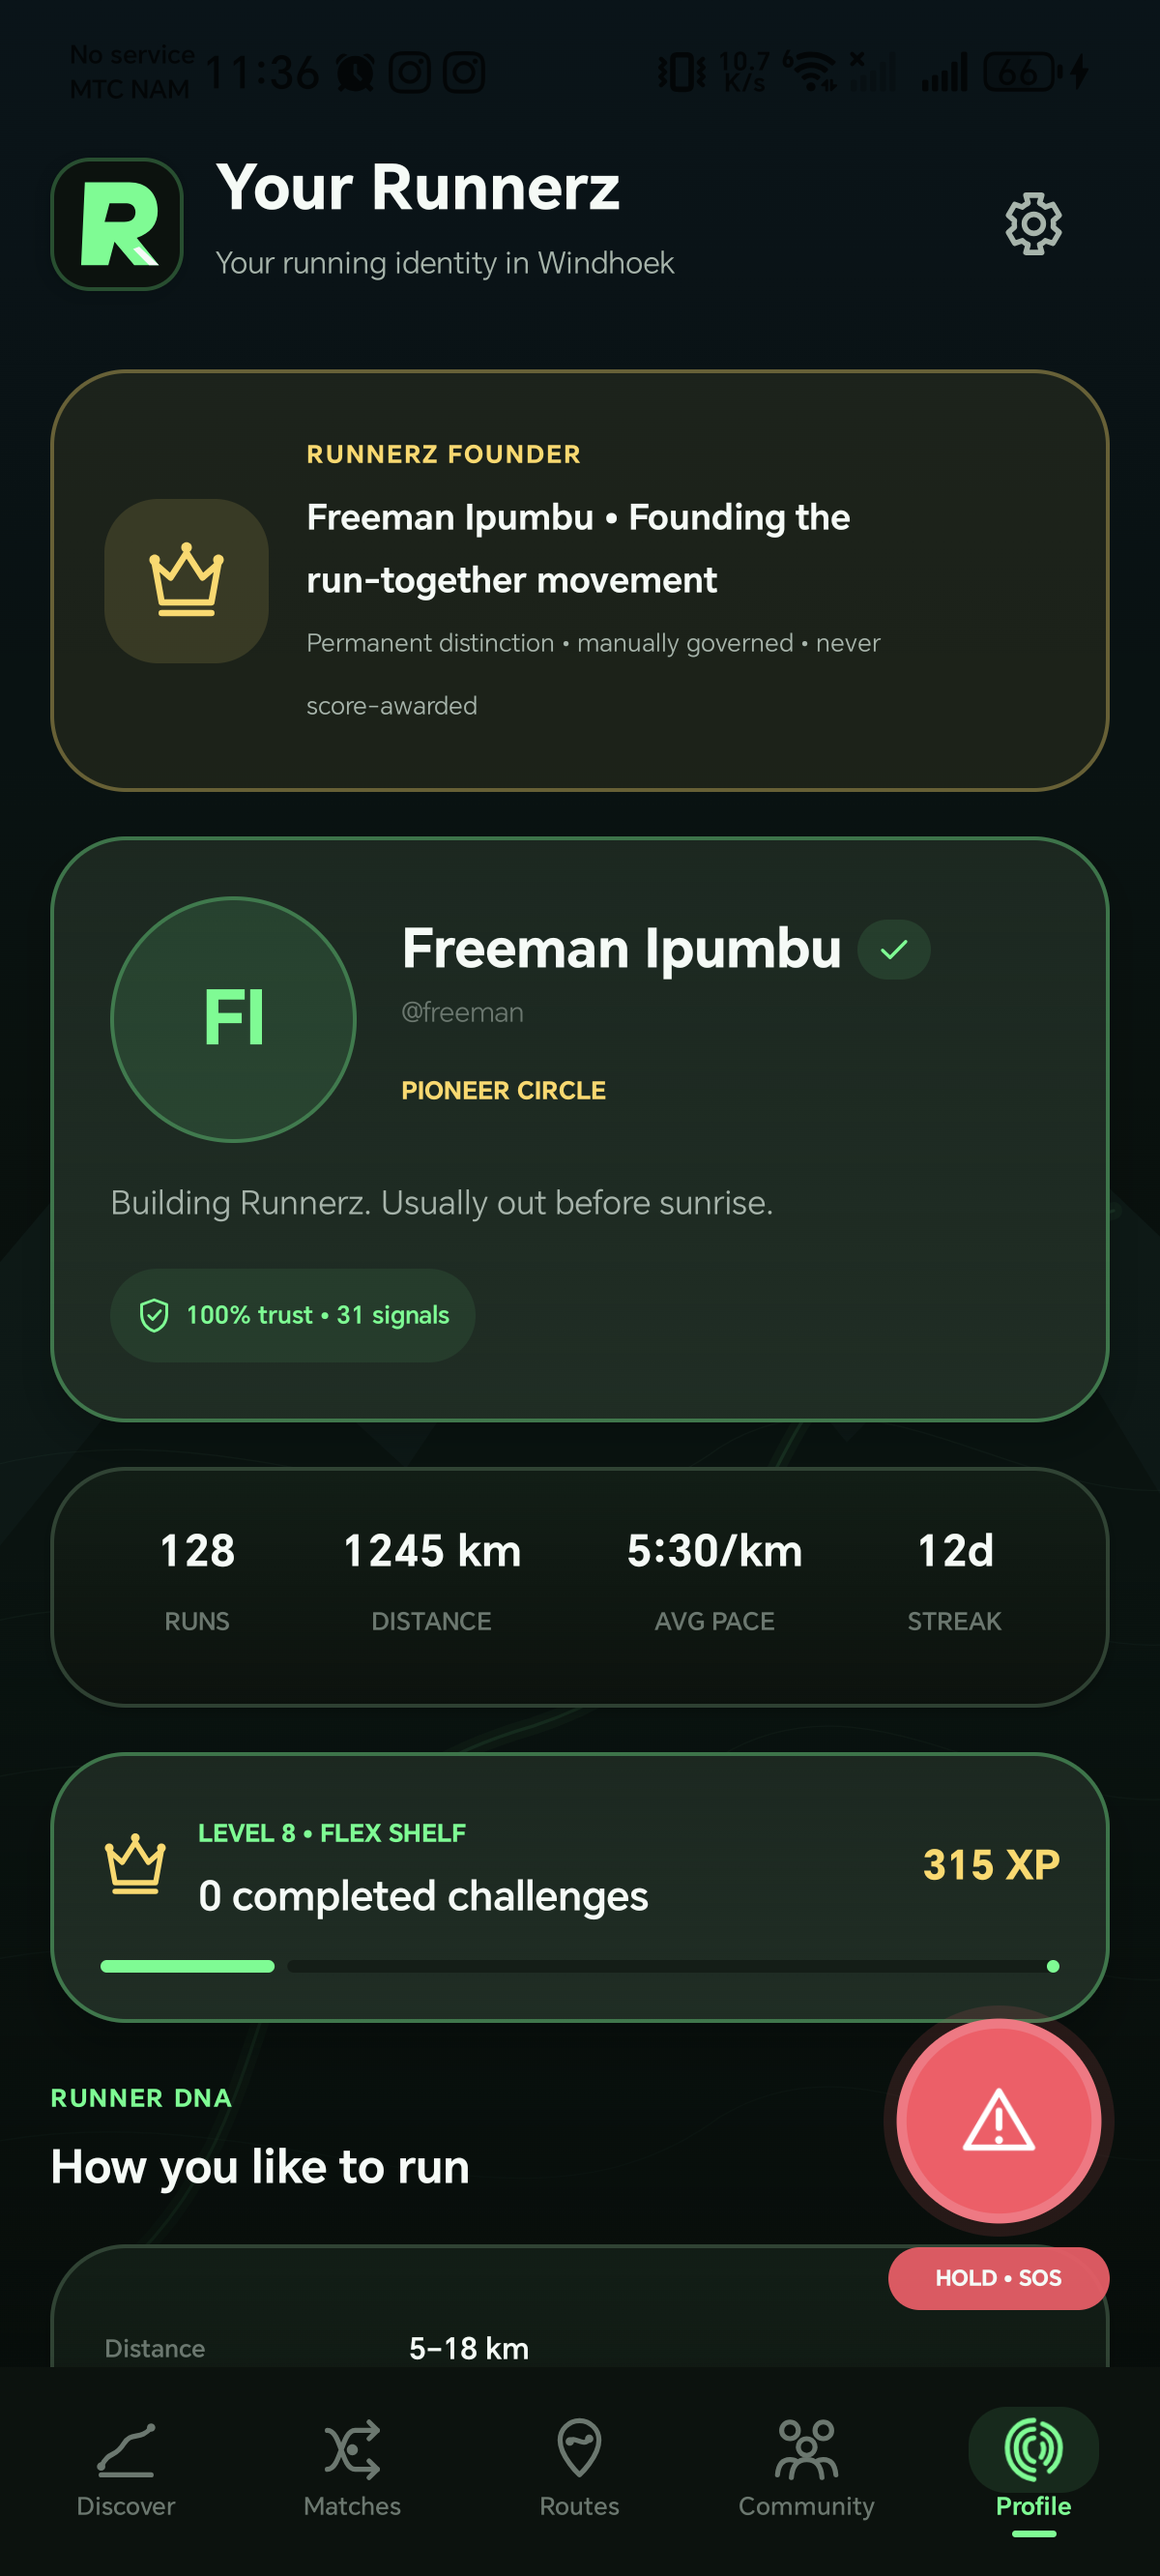
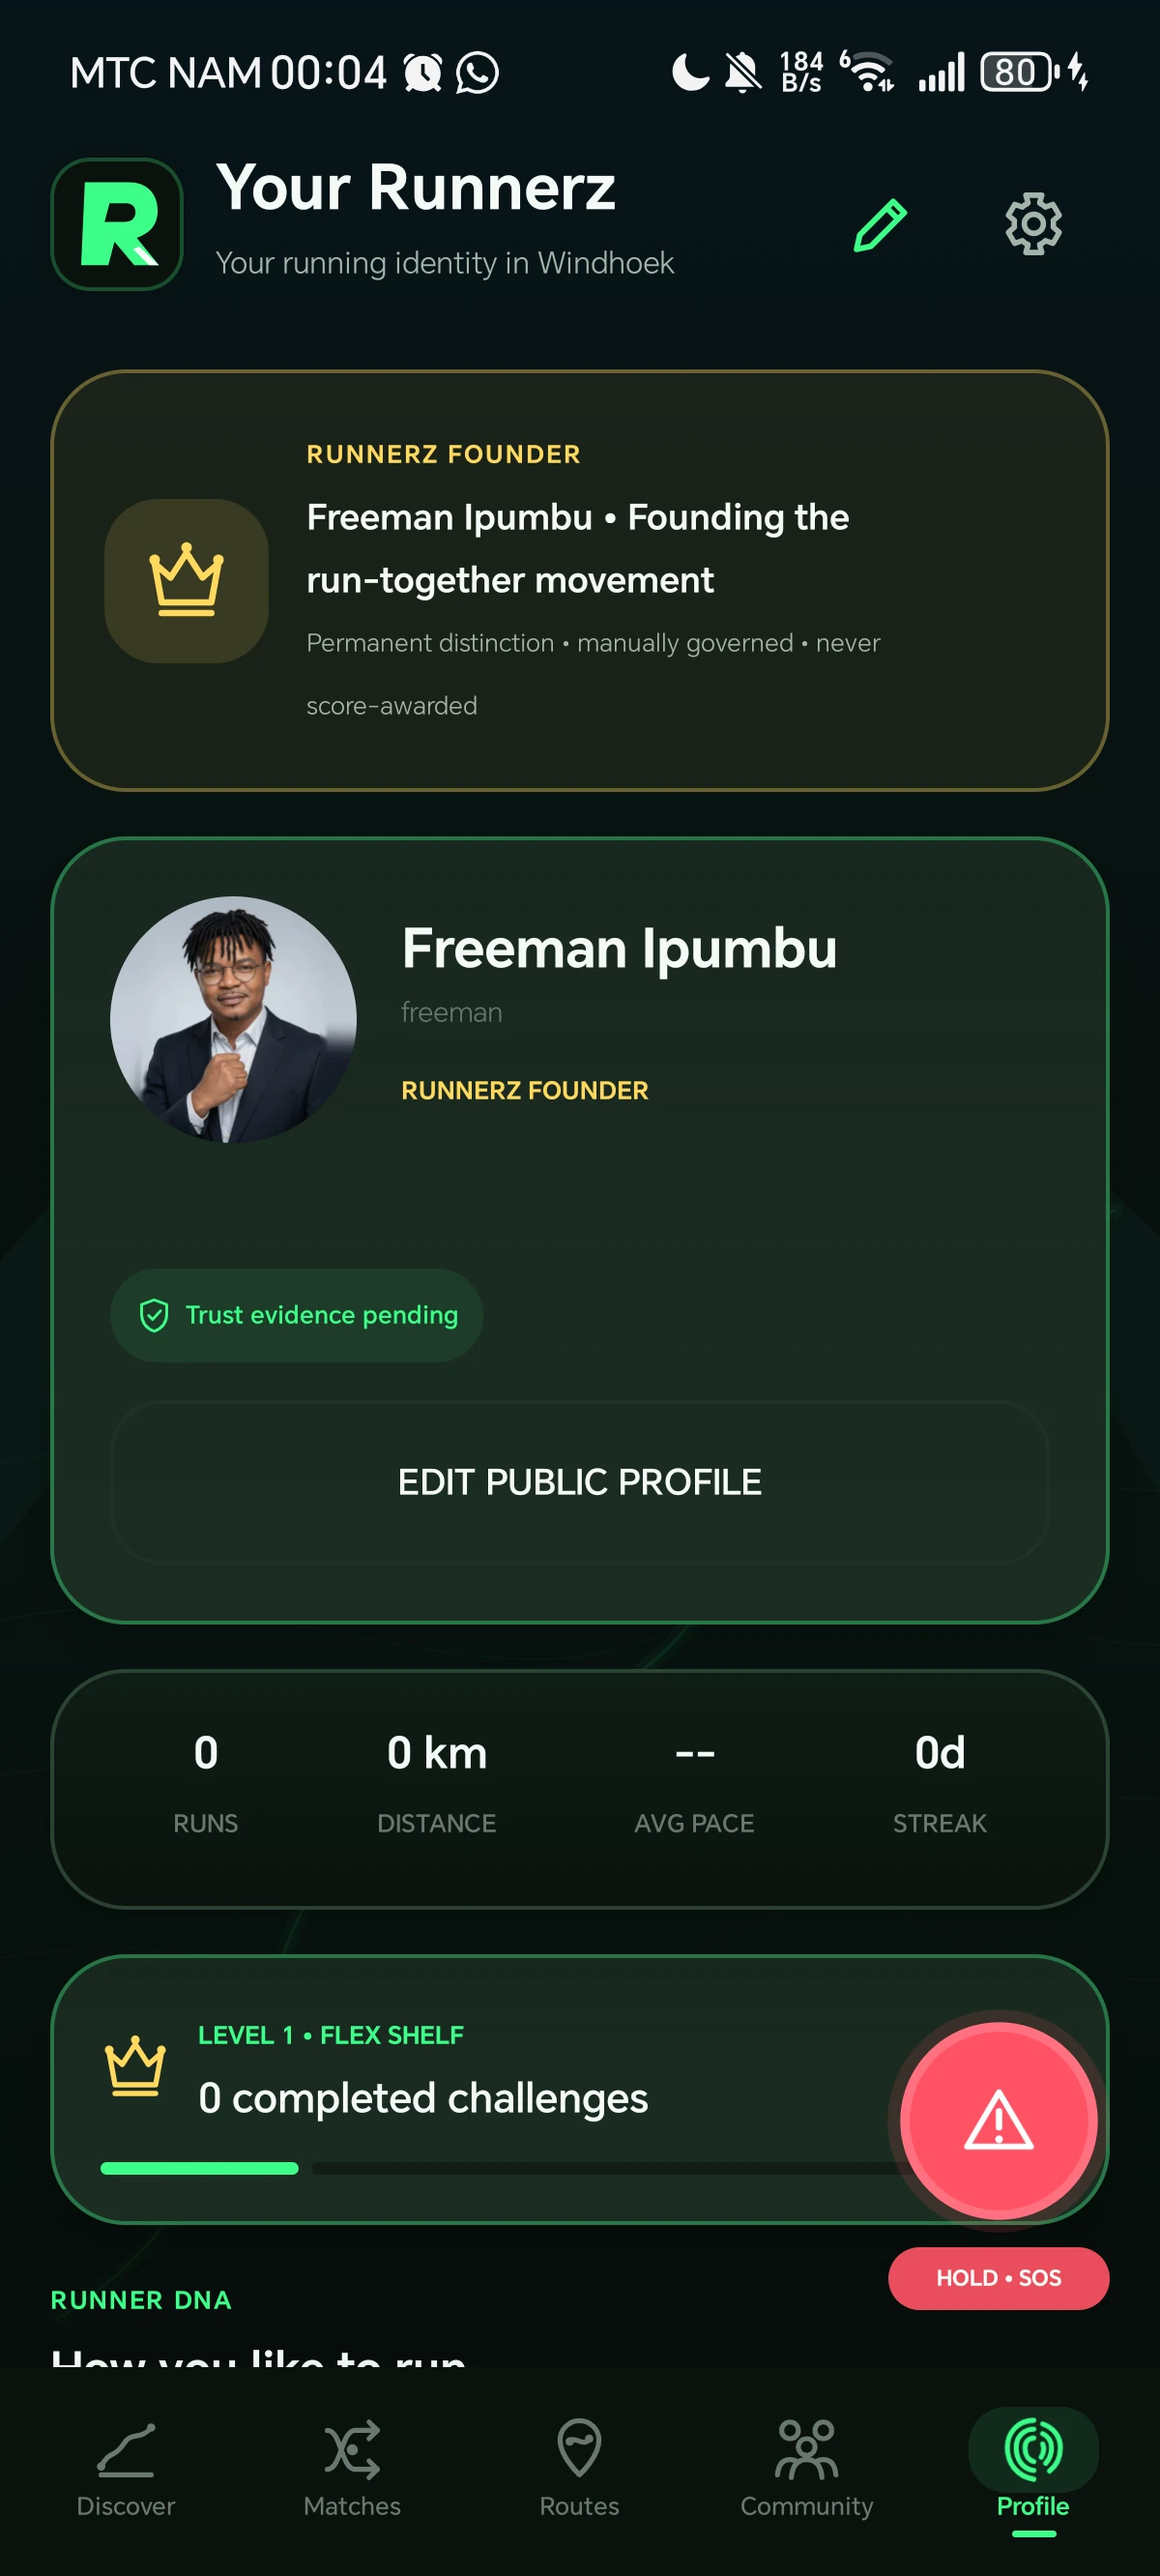
Document live profile recognition and run moments

diff --git a/README.md b/README.md
@@ -36,7 +36,10 @@ It is not a follower network wearing running clothes. The unit of value is a run
 - Create Run, join/leave and post-run confirmation journeys.
 - Run Connections built from completed activity rather than vanity follows.
 - Founder, Pioneer, Legend, Trust Circle and Brand Ambassador distinctions.
-- Challenge, circuit, share-card and squad-versus-squad growth foundations.
+- An expansive, revocable earned-badge catalogue across performance, routes, community, trust and safety, with governed legacy distinctions kept separate.
+- Challenge, circuit, privacy-safe share-card, rotating run-fact and squad-versus-squad growth foundations.
+- Owner-controlled public profile editing with a metadata-stripped, size-capped WebP portrait derivative.
+- Personalised Namibian greetings plus reduced-motion-aware, device-tiered launch and celebration feedback.
 - Production-shaped email signup, confirmation, sign-in and password recovery with clear next actions.
 - Event-backed in-app and push-notification foundations for run and community moments.
 - A lawful emergency quick-dial action that opens the system dialler without claiming dispatch.
@@ -44,7 +47,7 @@ It is not a follower network wearing running clothes. The unit of value is a run
 
 ## Selected Android surfaces
 
-All captures below come from the real `1.0.4` Android build on a physical HONOR device at 1200 × 2664. No speculative phone mockups are used.
+All captures below come from the real `1.0.7` Android build on a physical HONOR device at 1200 × 2664. No speculative phone mockups are used.
 
 | Welcome | Secure sign-in | Create account |
 |---|---|---|
@@ -62,9 +65,13 @@ All captures below come from the real `1.0.4` Android build on a physical HONOR 
 |---|---|---|
 | ![Runnerz Discover](assets/app-discover.webp) | ![Runnerz Community](assets/app-community.webp) | ![Runnerz Founder profile](assets/app-profile.webp) |
 
-| Emergency quick dial |
+| Governed badge shelf | Privacy-safe share studio | Emergency quick dial |
+|---|---|---|
+| ![Runnerz governed recognition](assets/app-badges.webp) | ![Runnerz share-card studio](assets/app-share-card.webp) | ![Runnerz emergency quick dial](assets/app-emergency-quick-dial.webp) |
+
+| Device-aware completion moment |
 |---|
-| ![Runnerz emergency quick dial](assets/app-emergency-quick-dial.webp) |
+| ![Runnerz run-completion celebration](assets/app-run-celebration.webp) |
 
 ## Design science approach
 
@@ -95,11 +102,11 @@ Exact personal locations and private homes are not part of the public product st
 
 ## Current status
 
-The canonical Android implementation remains private. Version `1.0.4` is installed as separate Live and Field Test applications on the same physical device, and `1.0.4-field-test (5)` is distributed through a controlled Firebase tester group. Both build flavours pass their unit-test suites and assemble successfully.
+The canonical Android implementation remains private. Version `1.0.7` is installed as separate Live and Field Test applications on the same physical device, and `1.0.7-field-test (8)` is distributed through a controlled Firebase tester group. Both build flavours pass their unit-test suites and assemble successfully.
 
 Account creation, email confirmation, visible-password controls, matching-password validation, resend confirmation, privacy-safe recovery and authenticated in-app password updates are connected to Supabase Auth. A real founder recovery uncovered a callback/session race; the release now waits for the genuine authenticated recovery session before exposing the password-update form.
 
-Core route discovery, matching, community, profile, lawful SOS dialling and notification foundations have been built and exercised. Wider cohort validation, field verification, release signing and store review remain deliberate gates rather than launch claims.
+Core route discovery, matching, community, editable profiles, lawful SOS dialling and notification foundations have been built and exercised. The live backend also passes 102 pgTAP assertions across schema, RLS, growth and private push delivery. Wider cohort validation, field verification, release signing and store review remain deliberate gates rather than launch claims.
 
 ## Repository boundary
 
